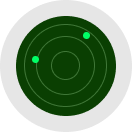
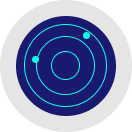
changes to theme updated

diff --git a/src/pages/home.js b/src/pages/home.js
@@ -10,12 +10,15 @@ import home_background1 from '../../public/images/background/home_background1.pn
 import cuteasyraf from '../../public/images/LCCImages/cuteasyraf.png'
 import bloom2 from '../../public/images/background/bloom2.png'
 import bloom3 from '../../public/images/background/bloom3.png'
-import white_divider from '../../public/images/background/white_divider.png'
+import bloom4 from '../../public/images/background/bloom4.png'
+import pink_divider from '../../public/images/background/pink_divider.png'
 import social from '../../public/images/logo/social.png'
 import entertainment from '../../public/images/logo/entertainment.png'
 import red_dots from '../../public/images/background/red_dots.png'
 import red_dot from '../../public/images/background/red_dot.png'
+import {LuckyDrawTimer} from "@/components/LuckyDrawTimer";
 
+const LUCKYDRAW_TIMING = new Date("2024-01-27 18:00")
 export default function Home() {
     useEffect(() => {
             AOS.init();
@@ -29,7 +32,7 @@ export default function Home() {
             <link rel="icon" href="../../public/favicon.ico" />
             <link rel="canonical" href="http://lcc.sutd.edu.sg"/>
         </Head>
-      <div className='bg-[#1C1C1C] bg-cover -z-20 h-auto w-screen'>
+      <div className='bg-[#1C1C1C] bg-cover -z-20 h-auto w-full'>
           <div className='absolute left-1/2 -translate-x-1/2 w-full z-10'>
               <Image layout='responsive' src={home_background1}/>
           </div>
@@ -37,27 +40,26 @@ export default function Home() {
           <section id='top bar' className='relative'>
             <NaviBar/>
           </section>
+          {/*Countdown Alert For Luckydraw*/}
+          <section id='luckydraw-countdown' className= 'pl-20 pt-32'>
+              <LuckyDrawTimer targetTime={LUCKYDRAW_TIMING} suppressHydrationWarning={true}/>
+          </section>
           {/* Top Header */}
-          <section id='top-header' className='pt-32 font-ron pl-20 flex flex-row text-left'>
+          <section id='top-header' className='font-ron pl-20 flex flex-row text-left'>
               <div className='pt-10'>
-            <h1 className='text-[#25F3FF] text-[3.5vw]' data-aos='fade-left' data-aos-delay='500'>27 Sept 2-6pm</h1>
-            <h1 className='text-white text-[4.5vw] leading-none' data-aos='fade-left' data-aos-delay='700'>
-                LEARNING
-            </h1>
-            <br></br>
-            <h1 className='text-white text-[4.5vw] leading-none' data-aos='fade-left' data-aos-delay='900'>
-                CELEBRATION
-            </h1>
-            <br></br>
-            <h1 className='text-white text-[4.5vw] leading-none' data-aos='fade-left' data-aos-delay='1100'>
-                CARNIVAL
-            </h1>
-            <h1 className='text-[#FD8FFF] text-[3.5vw]' data-aos='fade-right' data-aos-delay='1300'>@ Campus Centre</h1>
-              <div className='text-white font-gotham-light text-[1.5vw]'>
-                  <h1 data-aos='fade-right' data-aos-delay='1500'>Overseas Experience.</h1>
-                  <h1 data-aos='fade-right' data-aos-delay='1500'>Research Opportunities.</h1>
-                  <h1 data-aos='fade-right' data-aos-delay='1500'>Fifth Rows.</h1>
-              </div>
+                <h1 className='text-[#25F3FF] text-[3.5vw]' data-aos='fade-left' data-aos-delay='500'>27 Sept 2-6pm</h1>
+                <h1 className='text-white text-[4.5vw] leading-none' data-aos='fade-left' data-aos-delay='700'>
+                    LEARNING
+                </h1>
+                <br></br>
+                <h1 className='text-white text-[4.5vw] leading-none' data-aos='fade-left' data-aos-delay='900'>
+                    CELEBRATION
+                </h1>
+                <br></br>
+                <h1 className='text-white text-[4.5vw] leading-none' data-aos='fade-left' data-aos-delay='1100'>
+                    CARNIVAL
+                </h1>
+                <h1 className='text-[#B57BFF] text-[3vw] pt-4' data-aos='fade-right' data-aos-delay='1300'>@ Campus Centre & <br></br>Auditorium</h1>
          </div>
           <div className='pl-20 w-[45vw] z-10' data-aos='fade-left' data-aos-delay='1700'>
               <Image layout='responsive' src={cuteasyraf}/>
@@ -65,25 +67,22 @@ export default function Home() {
           </section>
           {/* Event explanation */}
           <section id='event-explanation'>
-              <div className='absolute left-1/2 -translate-x-1/2 -translate-y-1/4 top-1/2 w-screen'>
+              <div className='absolute left-1/2 -translate-x-1/2 -translate-y-1/4 top-1/2 w-3/4'>
                  <Image layout='responsive' src={bloom2}/>
               </div>
               <div className='absolute left-1/2 -translate-x-1/2 w-full z-10'>
                 <Image layout='responsive' src={home_background1}/>
              </div>
-              <h1 className='pl-20 pt-40 font-ron text-[2vw] text-[#25F3FF]'>What is this event about?</h1>
+              <h1 className='pl-20 pt-40 font-ron text-[3vw] text-[#B57BFF]'>What is this event</h1>
               <div className='w-11/12 inline-block pl-14 mt-4'>
-                  <Image layout='responsive' src={white_divider}/>
-              </div>
-              <div className='w-full text-[1.5vw] inline-block px-28 mt-4'>
-                <h1 className='font-gotham-light text-white'>This event showcases and shares the different things that students have embarked on in the past summer with the rest of the school such as experiential learning journeys around the world and their innovations from the various programmes held over the past year. What we offer this year:</h1>
+                  <Image layout='responsive' src={pink_divider}/>
               </div>
               <div className='flex flex-row pt-10 justify-center gap-20'>
                   <div className='bg-[#596461] w-5/12 rounded-2xl pb-4 text-center z-10'>
                       <div className='w-[8vw] inline-block'>
                         <Image layout='responsive' src={social}/>
                       </div>
-                      <div className='bg-[#0A3F02] w-10/12 mx-auto border-2 pb-10 border-[#D3D3D3] relative text-[#5FFF6F] font-gotham-light'>
+                      <div className='bg-[#191970] w-10/12 mx-auto border-4 pb-10 border-gray-600 relative text-[#0BFFE6] font-gotham-light'>
                            <h1 className='text-[.5vw] absolute top-1 left-3'>
                                Log: #30194
                            </h1>
@@ -119,7 +118,7 @@ export default function Home() {
                       <div className='w-[4vw] inline-block pt-6'>
                         <Image layout='responsive' src={entertainment}/>
                       </div>
-                       <div className='bg-[#0A3F02] w-10/12 mx-auto border-2 text-[#5FFF6F] border-[#D3D3D3] font-gotham-light mt-6 pb-10 relative'>
+                       <div className='bg-[#191970] w-10/12 mx-auto border-4 text-[#0BFFE6] border-gray-600 font-gotham-light mt-6 pb-10 relative'>
                            <h1 className='text-[.5vw] absolute top-1 left-3'>
                                Log: #30195
                            </h1>
@@ -133,7 +132,7 @@ export default function Home() {
                            <div className='pl-8 w-10/12 pt-4 text-[1.2vw] text-left'>
                             <h1 className='font-bold'>Lucky Draw</h1>
                               <h1 className='text-white'>
-                                  Stand a chance to win Airpods Pro, Something and Something!! Click the link below for more info
+                                  Stand a chance to win AirPods Pro 2nd Gen, PRISM 28-inch monitor W280, Bose SoundLink Mini II, Phillips Airfryer, WeWatch V50 Projector
                               </h1>
                               <br></br>
                               <h1 className='font-bold'>Food Stamps</h1>
@@ -162,10 +161,13 @@ export default function Home() {
           </div>
           {/*Features*/}
           <section id='features'>
-            <div className='absolute left-1/2 -translate-x-1/2 -translate-y-1/3 w-screen'>
+            <div className='absolute left-1/2 -translate-x-1/2 -translate-y-1/3 w-full'>
                  <Image layout='responsive' src={bloom3}/>
               </div>
-            <h1 className='pl-20 pt-20 font-ron text-[2.5vw] text-[#25F3FF]'>Featuring</h1>
+              <div className='absolute left-1/2 -translate-x-1/2 -translate-y-1/3 w-full'>
+                 <Image layout='responsive' src={bloom4}/>
+              </div>
+            <h1 className='pl-20 pt-20 font-ron text-[2.5vw] text-[#B57BFF]'>Featuring</h1>
           {/*    Insert Carousel here */}
               <div className='bg-[#596461] rounded-2xl mt-12 w-11/12 mx-auto pt-4 relative pb-[40vw] z-10'>
                   <div className='font-gotham text-black text-[1vw] inline-block pt-4 pl-8'>

diff --git a/src/pages/index.js b/src/pages/index.js
@@ -36,11 +36,11 @@ export default function Countdown() {
             <link rel="icon" href="../../public/favicon.ico" />
             <link rel="canonical" href="http://lcc.sutd.edu.sg"/>
         </Head>
-      <div className='bg-[#1C1C1C] bg-cover h-auto text-center'>
-          <div className='absolute top-1/2 left-1/2 -translate-x-1/2 -translate-y-1/2 w-screen'>
+      <div className='bg-[#1C1C1C] bg-cover w-full h-auto text-center'>
+          <div className='absolute top-1/2 left-1/2 -translate-x-1/2 -translate-y-1/2 w-full'>
             <Image layout='responsive' src={bloom}/>
           </div>
-          <div className='absolute w-screen'>
+          <div className='absolute w-full'>
             <Image layout='responsive' src={background_icons}/>
           </div>
           <section id='sutd logo'>
@@ -61,7 +61,7 @@ export default function Countdown() {
                 <h1 className='text-white text-[5vw] leading-none' data-aos='fade-down' data-aos-delay='1100'>
                     CARNIVAL
                 </h1>
-                <h1 className='text-[#FD8FFF] text-[4vw]' data-aos='fade-down' data-aos-delay='1300'>@ Campus Centre</h1>
+                <h1 className='text-[#B57BFF] text-[4vw]' data-aos='fade-down' data-aos-delay='1300'>@ Campus Centre<br></br> & Auditorium</h1>
             </section>
           <section id='counter'>
               <CountdownTimer targetDate={LCC_DATE} suppressHydrationWarning={true}/>
@@ -71,11 +71,11 @@ export default function Countdown() {
                   <Image layout='responsive' src={top_remote_dots}/>
               </div>
               <div className='flex flex-row'>
-                <div className='flex flex-wrap w-5/6 pt-4'>
+                <div className='flex flex-wrap w-5/6 pt-4' data-aos-offset="50px">
                     <div className='pl-24 lg:w-[20vw] w-[28vw] md:w-[24vw] inline-block' data-aos='flip-up' data-aos-duration='700' data-aos-delay='500'>
                         <Image layout='responsive' src={top_left}/>
                     </div>
-                      <div className='pl-6 relative font-ron text-[#5FFF6F] lg:leading-5 md:leading-4 sm:text-[0.8vw] md:text-[0.9vw] lg:text-[1vw]' data-aos='flip-up' data-aos-duration='700' data-aos-delay='700'>
+                      <div className='pl-6 relative font-ron text-[#74F8FF] lg:leading-5 md:leading-4 sm:text-[0.8vw] md:text-[0.9vw] lg:text-[1vw]' data-aos='flip-up' data-aos-duration='700' data-aos-delay='700'>
                           <div className='w-[34vw]'>
                             <Image layout='responsive' src={top_left2}/>
                           </div>

diff --git a/src/components/CountDownTimer.js b/src/components/CountDownTimer.js
@@ -1,8 +1,5 @@
 import React from 'react';
 import {useCountdown} from "@/hooks/useCountdown";
-import Image from 'next/image'
-import AOS from 'aos';
-import 'aos/dist/aos.css';
 
 export const CountdownTimer = ({ targetDate }) => {
   const [days, hours, minutes, seconds] = useCountdown(targetDate);
@@ -38,16 +35,16 @@ export const CountdownTimer = ({ targetDate }) => {
         <table className='pt-20 inline-block text-[#FFEEFB]'>
             <tbody>
             <tr className='text-[9vw] md:text-[5vw] md:space-x-20 space-x-10 font-ron leading-9'>
-                <td className='inline-block' data-aos='zoom-in' data-aos-delay='1300'>
+                <td className='inline-block' data-aos='zoom-in' data-aos-delay='1300' data-aos-offset="50px">
                     {days_string[0]}{days_string[1]}: <br></br><h1 className='font-gotham text-[1.2vw]'>Days</h1>
                 </td>
-                <td className='inline-block' data-aos='zoom-in' data-aos-delay='1500'>
+                <td className='inline-block' data-aos='zoom-in' data-aos-delay='1500' data-aos-offset="50px">
                     {hours_string[0]}{hours_string[1]}: <br></br><h1 className='font-gotham text-[1.2vw]'>Hours</h1>
                 </td>
-                <td className='inline-block' data-aos='zoom-in' data-aos-delay='1700'>
+                <td className='inline-block' data-aos='zoom-in' data-aos-delay='1700' data-aos-offset="50px">
                     {minutes_string[0]}{minutes_string[1]}: <br></br><h1 className='font-gotham text-[1.2vw]'>Minutes</h1>
                 </td>
-                <td className='inline-block' data-aos='zoom-in' data-aos-delay='1900'>
+                <td className='inline-block' data-aos='zoom-in' data-aos-delay='1900' data-aos-offset="50px">
                     {seconds_string[0]}{seconds_string[1]} <br></br><h1 className='font-gotham text-[1.2vw]'>Seconds</h1>
                 </td>
             </tr>

diff --git a/src/components/LuckyDrawTimer.js b/src/components/LuckyDrawTimer.js
@@ -1,0 +1,45 @@
+import React from 'react';
+import {useCountdown} from "@/hooks/useCountdown";
+import Image from 'next/image'
+import AOS from 'aos';
+import 'aos/dist/aos.css';
+
+
+export const LuckyDrawTimer = ({ targetTime }) => {
+  const [days, hours, minutes, seconds] = useCountdown(targetTime);
+  let [hours_string, minutes_string, seconds_string] = [String(hours), String(minutes), String(seconds)];
+  if (days + hours + minutes + seconds <= 0 || days > 0){
+    hours_string = '00'
+    minutes_string = '00'
+    seconds_string = '00'
+  } else {
+      if (hours_string < 10) {
+          hours_string = '0' + hours_string
+      }
+
+      if (minutes_string < 10) {
+          minutes_string = '0' + minutes_string
+      }
+      if (seconds_string < 10) {
+          seconds_string = '0' + seconds_string
+      }
+  }
+    return (
+        <>
+       <div className='bg-[#596461] rounded-2xl text-center w-1/2 z-20 w-2/5'>
+            <table className='inline-block rounded-2xl bg-[#420059] w-11/12 my-2 border-4 border-gray-600 content-center'>
+                <div className='inline-block my-2'>
+                    <thead className='text-[#B57BFF] text-[0.75vw] md:text-[1.5vw] font-ron'>Lucky Draw</thead>
+                    <tbody>
+                        <tr className='text-[#B57BFF] text-[1vw] md:text-[1.75vw] md:space-x-20 space-x-10 font-ron'>
+                            <td className='inline-block' data-aos='zoom-in' data-aos-delay='500' data-aos-offset="50px">
+                                {hours_string[0]}{hours_string[1]} Hrs : {minutes_string[0]}{minutes_string[1]} Mins : {seconds_string[0]}{seconds_string[1]} Sec
+                            </td>
+                        </tr>
+                    </tbody>
+                </div>
+            </table>
+       </div>
+        </>
+    );
+};
